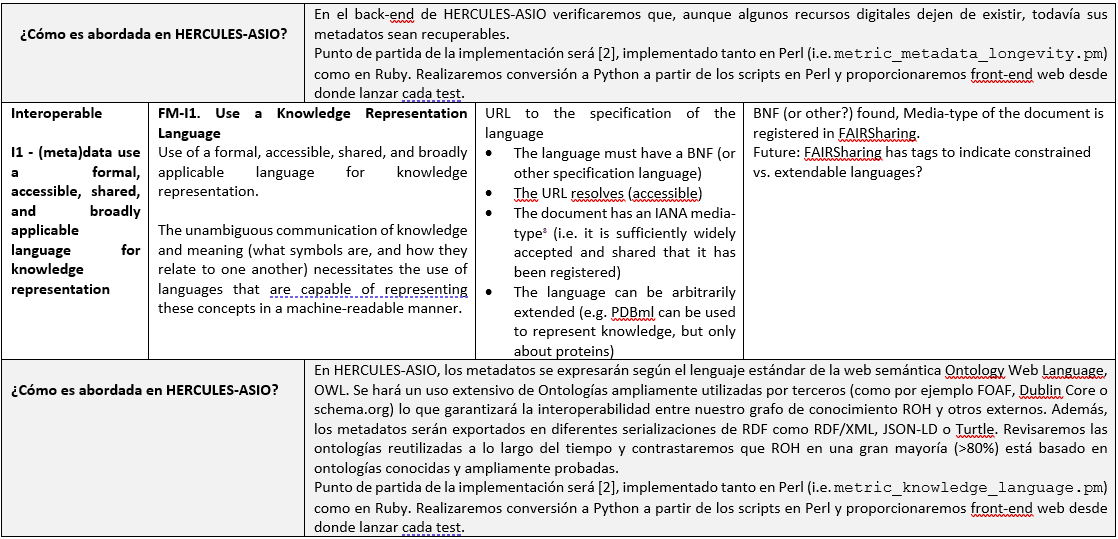
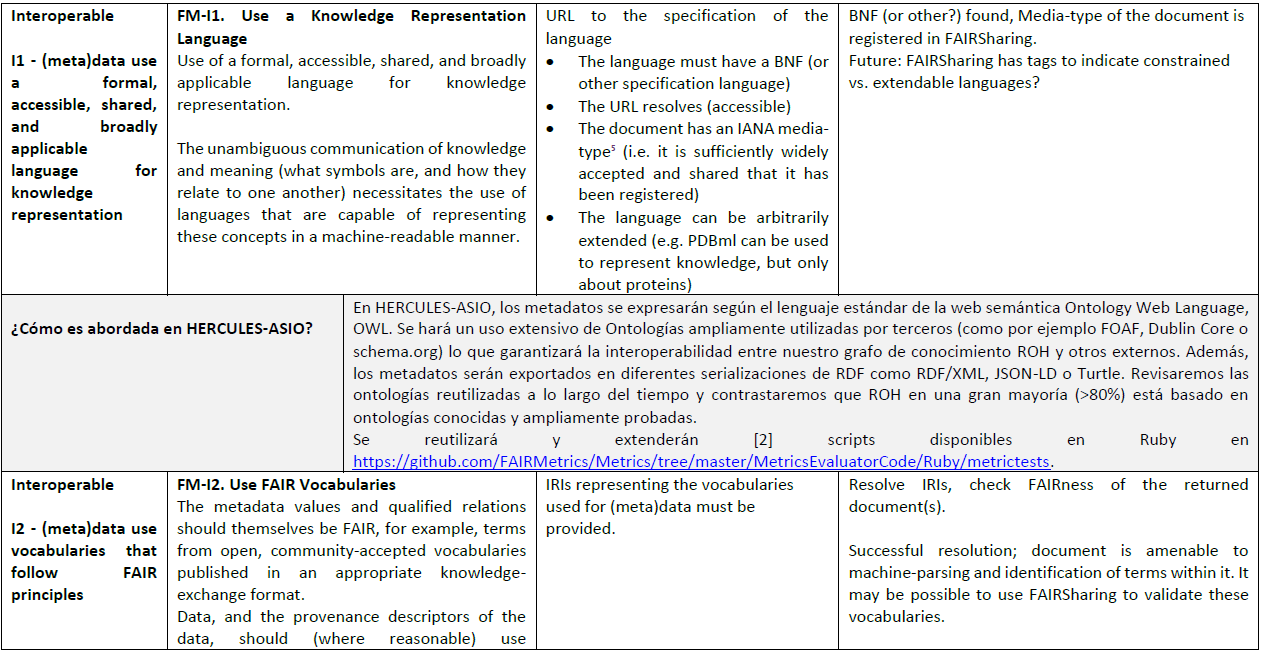
Updating FAIR tables

Changed region(s): [[0.0, 0.0, 1.0, 1.0], [0.0, 0.6531, 0.0304, 0.6827]]

diff --git a/fair/Docs/EF2.1-7. MÉTRICAS FAIR I- SOFTWARE Y DOCUMENTACIÓN DE MÉTRICAS.md b/fair/Docs/EF2.1-7. MÉTRICAS FAIR I- SOFTWARE Y DOCUMENTACIÓN DE MÉTRICAS.md
@@ -635,6 +635,9 @@ Como trabajo futuro deberemos realizar lo siguiente:
 ![Fair table:](.//media/fair_table_5.png)
 ![Fair table:](.//media/fair_table_6.png)
 ![Fair table:](.//media/fair_table_7.png)
+![Fair table:](.//media/fair_table_8.png)
+![Fair table:](.//media/fair_table_9.png)
+![Fair table:](.//media/fair_table_10.png)
 
 <!-- 
 | Principio FAIR                                                                                                 | Métrica/Explicación                                                                                                                                                                                                                                                                                                                                                                                                                                                                                                                                                                     |                                                                                                                                                                                                                                                                                                                                                                                                                                                                                                                                                                                                                                                                                                      |                                                                                                                                                                                                                                                                                                                                                                                         |                                                                                                                                                                                                                                                                                                                                                                                                                                                      | Especificación                                                                                                                                                                                                                                                                                                                      | Verificación                                                                                                                                                                                                                                                                                                                                                                        |
@@ -733,6 +736,13 @@ Como trabajo futuro deberemos realizar lo siguiente:
 | [2] http://guid.one/guid                                                                                       |                                                                                                                                                                                                                                                                                                                                                                                                                                                                                                                                                                                         |                                                                                                                                                                                                                                                                                                                                                                                                                                                                                                                                                                                                                                                                                                      |                                                                                                                                                                                                                                                                                                                                                                                         |                                                                                                                                                                                                                                                                                                                                                                                                                                                      |                                                                                                                                                                                                                                                                                                                                     |                                                                                                                                                                                                                                                                                                                                                                                     |
 | [3] https://www.iana.org/assignments/media-types/media-types.xhtml                                             |                                                                                                                                                                                                                                                                                                                                                                                                                                                                                                                                                                                         |                                                                                                                                                                                                                                                                                                                                                                                                                                                                                                                                                                                                                                                                                                      |                                                                                                                                                                                                                                                                                                                                                                                         |                                                                                                                                                                                                                                                                                                                                                                                                                                                      |                                                                                                                                                                                                                                                                                                                                     |                                                                                                                                                                                                                                                                                                                                                                                     |
 -->
+
+En la siguiente tabla se detallan los tests ejecutados en relación con las métricas FAIR y su resultado:
+
+![Fair test table:](.//media/fair_test_table_1.png)
+![Fair test table:](.//media/fair_test_table_2.png)
+
+
 [^1]: <https://github.com/FAIRMetrics/Metrics>
 
 [^2]: <https://github.com/FAIRMetrics/Metrics/blob/master/MaturityIndicators/MaturityIndicatorTemplate.md>
